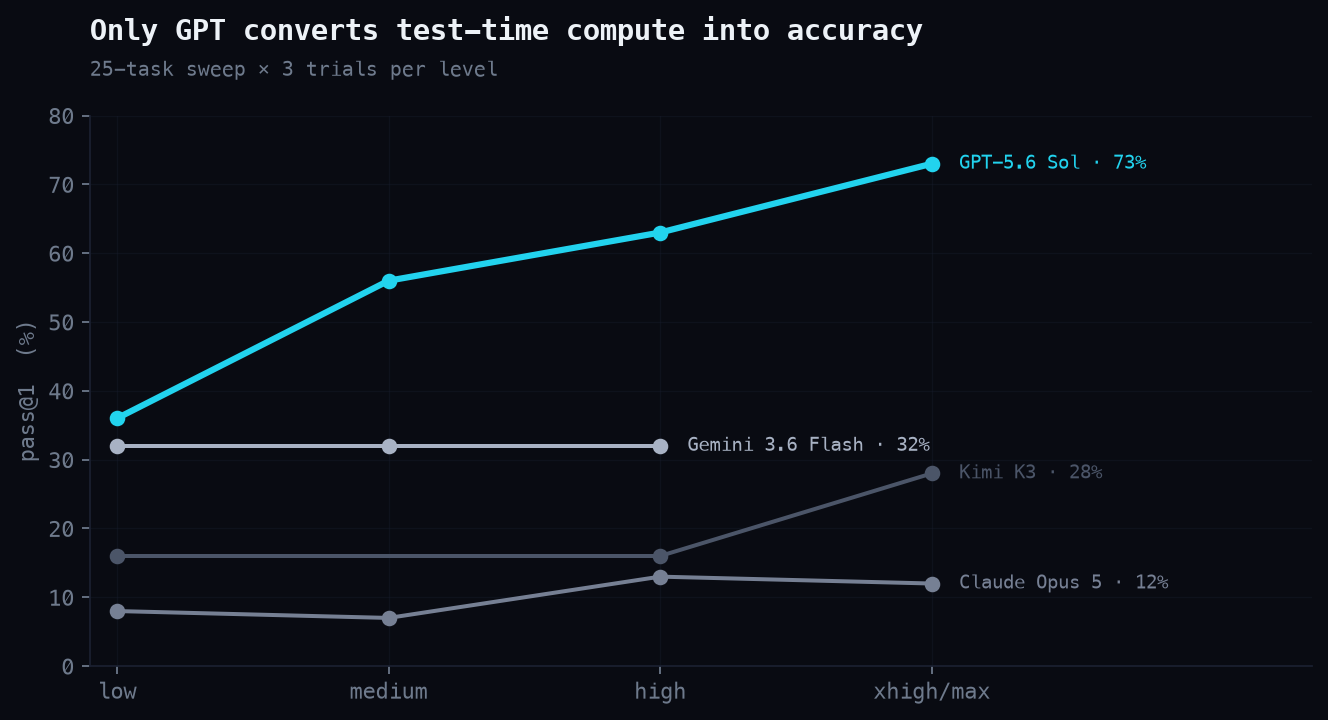
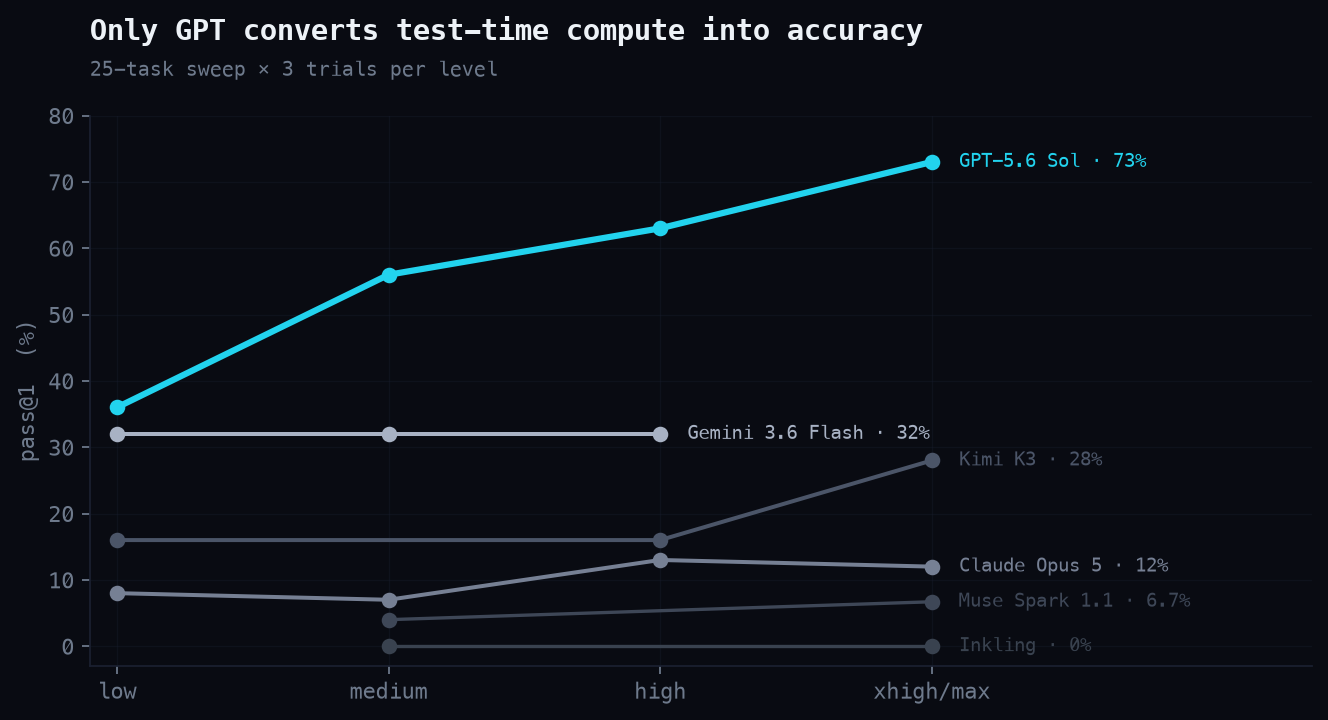
Effort chart: include the floor models
Muse Spark and Inkling join the chart as declared-versus-top two-point
lines (4 -> 6.7% and 0 -> 0%), so the sweep shows all six models
instead of disclaiming two of them in prose. Chart bottom padded so the
zero line's label clears the axis.

diff --git a/scripts/build_site.py b/scripts/build_site.py
@@ -58,15 +58,15 @@ SECTIONS = [
         "title": "Thinking longer helps one model",
         "figures": [
             ("03-effort.png", (
-                "The four strongest models were run at every reasoning-effort "
-                "setting they support, on a 25-maze subset. GPT gains 37 "
-                "points from low to xhigh and has not plateaued. Gemini gains "
-                "about 12 points from any thinking at all, then returns the "
-                "same score while using 6× more reasoning tokens. Claude "
-                "scores the same at every setting; Kimi moves only at its "
-                "maximum setting, at nine minutes per maze. Muse Spark and "
-                "Inkling were checked at their top setting only and stayed at "
-                "their floor."
+                "Every model was swept on a 25-maze subset: full effort "
+                "ladders for the four strongest, declared-versus-top checks "
+                "for the two at the floor. GPT gains 37 points from low to "
+                "xhigh and has not plateaued. Gemini gains about 12 points "
+                "from any thinking at all, then returns the same score while "
+                "using 6× more reasoning tokens. Claude scores the same at "
+                "every setting; Kimi moves only at its maximum setting, at "
+                "nine minutes per maze. Muse Spark and Inkling stay at the "
+                "floor even at top effort."
             )),
         ],
     },

diff --git a/scripts/make_figures.py b/scripts/make_figures.py
@@ -159,6 +159,9 @@ def fig_effort():
         ("Gemini 3.6 Flash", ["low", "medium", "high"], [32, 32, 32], "#A8B2C4", 1.8),
         ("Claude Opus 5", ["low", "medium", "high", "xhigh"], [8, 7, 13, 12], "#768094", 1.8),
         ("Kimi K3", ["low", "high", "max"], [16, 16, 28], "#4B5568", 1.8),
+        # Floor checks: declared setting vs top of ladder, same 25x3 design.
+        ("Muse Spark 1.1", ["medium", "xhigh"], [4, 6.7], "#3E4757", 1.5),
+        ("Inkling", ["medium", "xhigh"], [0, 0], "#39424F", 1.5),
     ]
     ticks = ["low", "medium", "high", "xhigh/max"]
     fig, ax = plt.subplots(figsize=(8.4, 4.6))
@@ -170,7 +173,7 @@ def fig_effort():
     ax.set_xticks(range(4), ticks)
     ax.set_ylabel("pass@1  (%)")
     ax.set_xlim(-0.1, 4.4)
-    ax.set_ylim(0, 80)
+    ax.set_ylim(-3, 80)
     _frame(ax, "Only GPT converts test-time compute into accuracy",
            "25-task sweep × 3 trials per level")
     save(fig, "03-effort.png")
